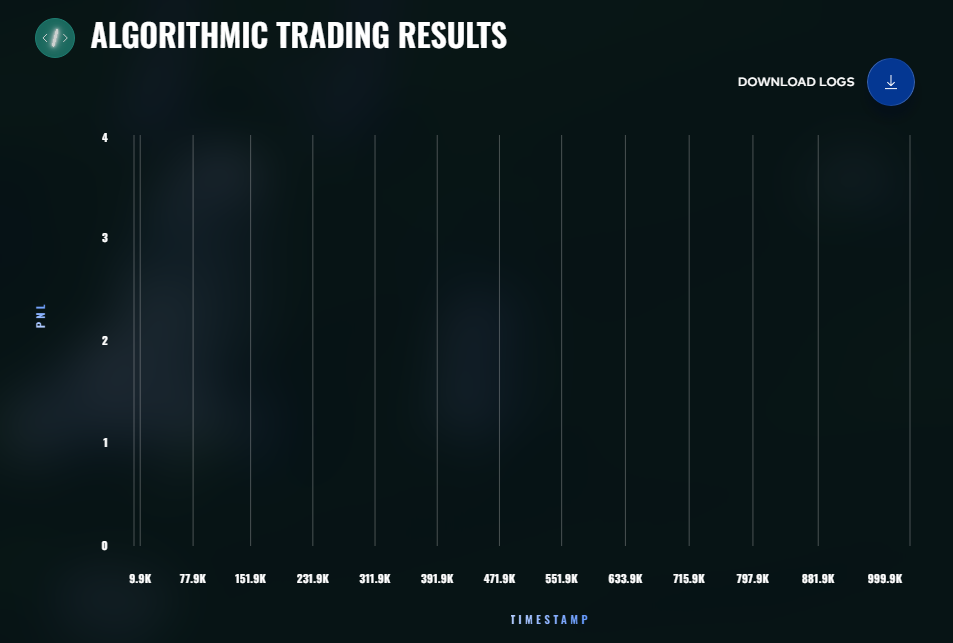
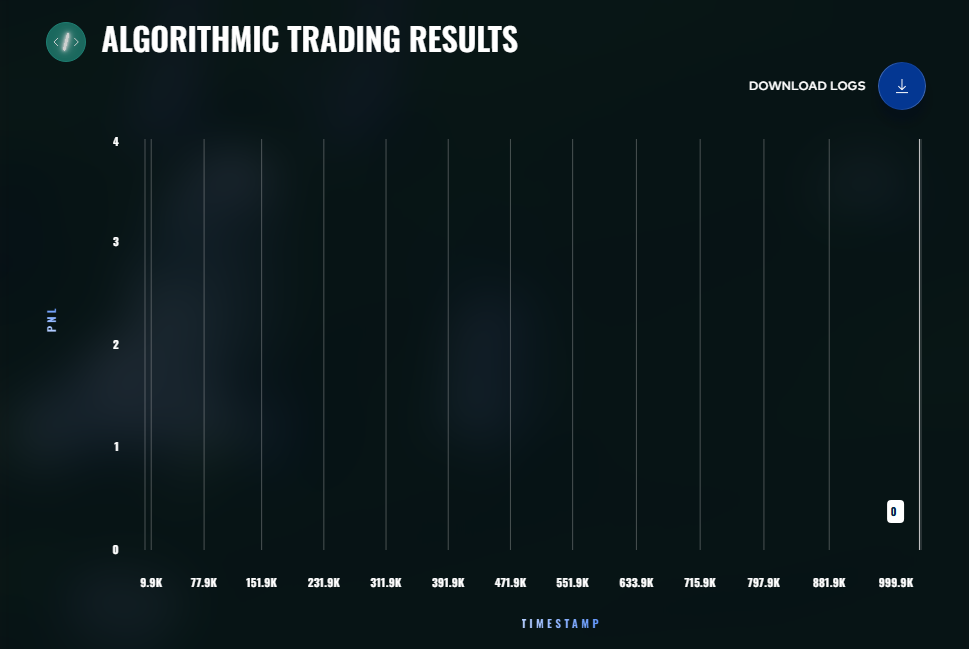
Try to fix an issue where the final profit graph for the Round 1 algorithm was not showing the the README.MD documentation

diff --git a/README.md b/README.md
@@ -357,7 +357,7 @@ class Trader:
 #### These are the results of our Round 1 algorithm:
 
 ![round_1_algorithm_results_1](https://github.com/Nicholas-Lucky/IMC-Prosperity-4-Submission/blob/main/readme_embeds/round_1_algorithm_results_1.png)
-![round_1_algorithm_results_2](https://github.com/Nicholas-Lucky/IMC-Prosperity-4-Submission/blob/main/readme_embeds/round_1_algorithm_results_2.gif)
+![round_1_algorithm_results_2](https://github.com/Nicholas-Lucky/IMC-Prosperity-4-Submission/blob/main/readme_embeds/round_1_algorithm_results_2.png)
 
 #### As expected, our algorithm resulted in zero profit, which we were fine with, as we decided to be safer this round until we can be more confident in our algorithm.
 
